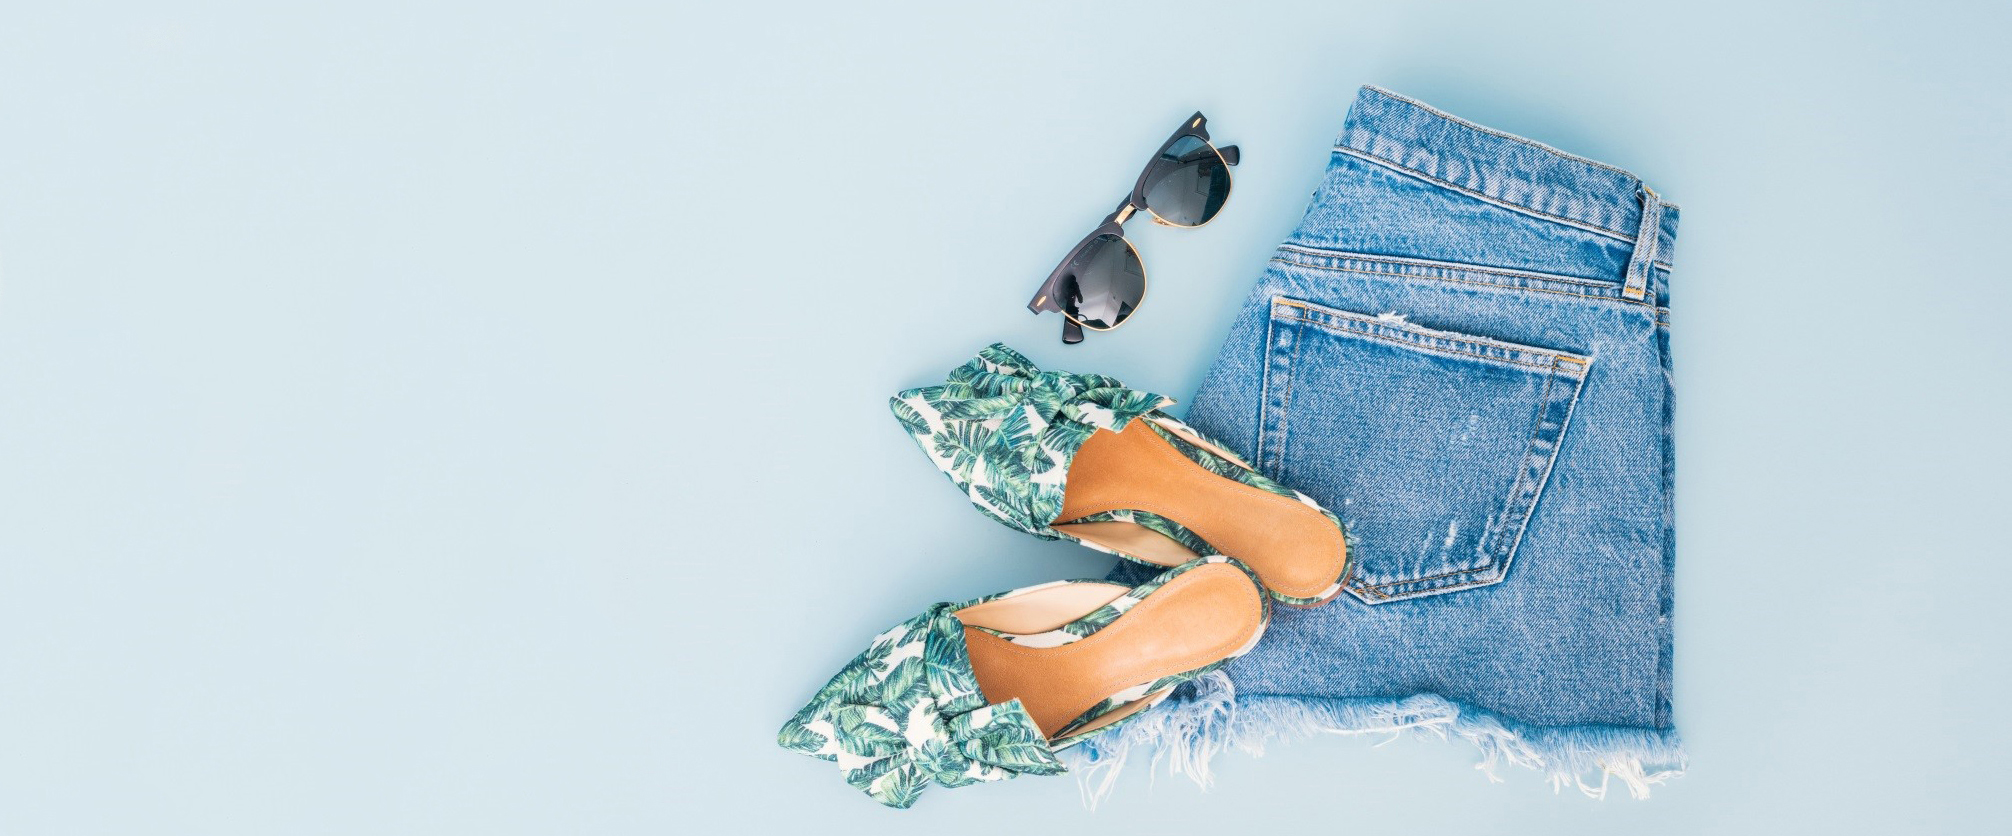
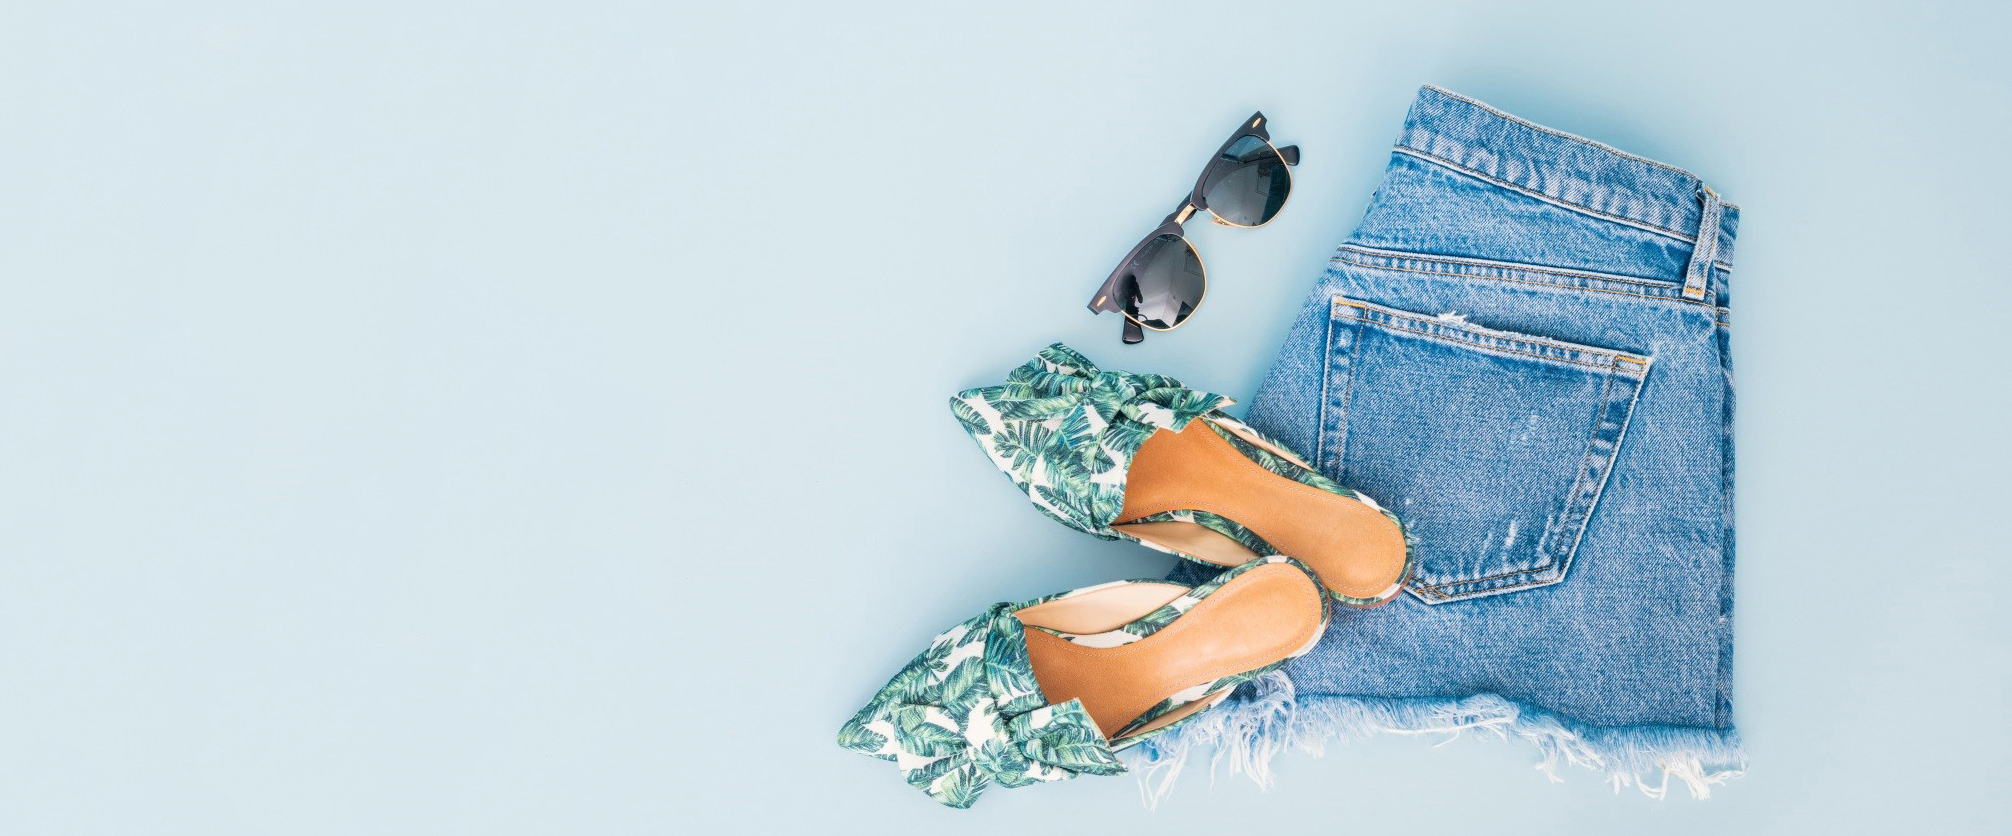
fix hero section button

Changed region(s): [[0.3698, 0.0933, 0.8628, 0.9641]]

diff --git a/src/Components/Home/Hero.js b/src/Components/Home/Hero.js
@@ -1,4 +1,5 @@
 import React from "react";
+import { BsCart3 } from "react-icons/bs";
 
 const Hero = () => {
     return (
@@ -7,16 +8,17 @@ const Hero = () => {
                 <div className="container py-5">
                     <div className="row py-lg-5">
                         <div className="col-lg-6 py-lg-5">
-                            <h1 className="display-2 pt-4 col-lg-10 fw-bold">
+                            <h1 className="display-1 pt-4  fw-bold">
                                 New, <span className="fs-stock">Amazing</span>{" "}
-                                Stuff is Here
+                                Stuff is Here...
                             </h1>
-                            <p className="text-muted pb-3 pb-lg-5">
+                            <p className="text-muted pb-3 fs-5 pb-lg-5">
                                 Shop today and get{" "}
                                 <span className="text-dark">20% discount</span>
                             </p>
-                            <button className="btn mb-lg-5 mb-5 btn-danger px-5 rounded-0">
-                                Shop Now
+                            <button className="btn mb-lg-5 mb-5 border-3 btn-primary text-white border-success px-4 py-2 rounded-0">
+                                Shop Now{" "}
+                                <BsCart3 className="mb-1 ms-2 fw-semibold fs-5" />
                             </button>
                         </div>
                     </div>

diff --git a/src/Style.css b/src/Style.css
@@ -3,7 +3,7 @@ body {
     font-family: "Poppins", sans-serif;
 }
 .hero-bg {
-    background-image: url("./Images/banner/banner1.jpg");
+    background-image: url("./Images/banner/banner2.jpg");
     background-position: center center;
     background-repeat: no-repeat;
     background-size: cover;
